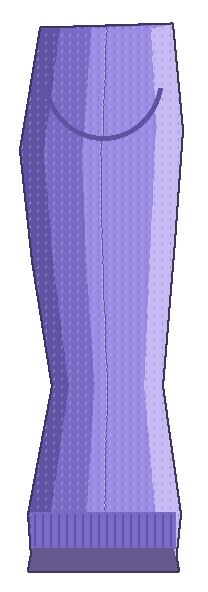
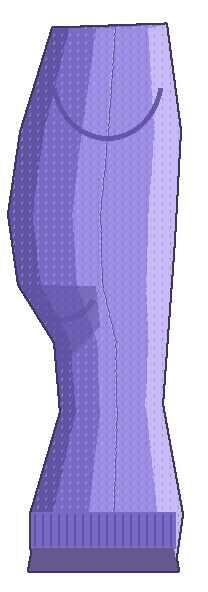
Visuales corporales: busto más prominente y alineación micro al girar la giantess

diff --git a/tools/art/cuerpo.py b/tools/art/cuerpo.py
@@ -423,44 +423,71 @@ def body_chest():
     d = ImageDraw.Draw(im)
     cx = w // 2
 
-    # Silueta femenina entallada del torso (hombros anchos, cintura afinada, cadera suave)
+    # Silueta femenina de joven adulta: busto prominente, cintura entallada, cadera suave
     torso = [
-        (36, 36), (146, 22), (w - 146, 22), (w - 36, 36),
-        (w - 22, 140), (w - 36, 290), (w - 64, 446), (w - 48, 566),
-        (w - 58, h - 22), (58, h - 22), (48, 566), (64, 446),
-        (36, 290), (22, 140),
+        (42, 34), (146, 22), (w - 146, 22), (w - 42, 34),
+        (w - 28, 118), (w - 14, 198), (w - 18, 276), (w - 42, 346),
+        (w - 76, 444), (w - 64, 520), (w - 48, 574), (w - 54, h - 22),
+        (54, h - 22), (48, 574), (64, 520), (76, 444),
+        (42, 346), (18, 276), (14, 198), (28, 118),
     ]
     d.polygon(torso, fill=CARD)
     shade_cylinder(im, CARD, CARD_L, CARD_D, CARD_D2, knit=True)
 
-    d = ImageDraw.Draw(im)
-    # Sombras suaves de volumen del busto
-    d.arc([74, 152, cx - 10, 286], start=20, end=165, fill=CARD_D, width=8)
-    d.arc([cx + 10, 152, w - 74, 286], start=15, end=160, fill=CARD_D2, width=8)
+    # Volumen 3D del busto sobre el tejido del cárdigan (cel-shading suave, sin cortes rectos)
+    bust = Image.new('RGBA', (w, h), (0, 0, 0, 0))
+    db = ImageDraw.Draw(bust)
+    # Sombra proyectada continua bajo la línea del busto (forma de W suave)
+    under_shadow = [
+        (36, 266), (72, 316), (138, 338), (cx - 24, 322), (cx, 298),
+        (cx + 24, 322), (w - 138, 338), (w - 72, 316), (w - 36, 266),
+        (w - 44, 344), (w - 92, 368), (cx + 28, 356), (cx, 336),
+        (cx - 28, 356), (92, 368), (44, 344),
+    ]
+    db.polygon(under_shadow, fill=(*CARD_D2[:3], 130))
+    for side in (-1, 1):
+        bx = cx + side * 96
+        # media luna suave en la cara inferior del busto
+        db.arc([bx - 88, 178, bx + 88, 322], start=18, end=162, fill=(*CARD_D[:3], 190), width=28)
+        db.arc([bx - 88, 186, bx + 88, 324], start=22, end=158, fill=(*CARD_D2[:3], 220), width=8)
+        # brillo suave en la pendiente superior (luz desde arriba a la izquierda)
+        hl_dx = -18 if side == -1 else -10
+        db.arc([bx - 76 + hl_dx, 166, bx + 68 + hl_dx, 260], start=205, end=330, fill=(*CARD_L[:3], 150), width=22)
+        db.arc([bx - 64 + hl_dx, 174, bx + 52 + hl_dx, 244], start=210, end=320, fill=(*CARD_L[:3], 200), width=10)
+    # valle central y pliegues de tensión de la tela hacia los botones
+    db.polygon([(cx - 22, 214), (cx + 22, 214), (cx + 16, 326), (cx - 16, 326)], fill=(*CARD_D2[:3], 110))
+    for dy, spread in ((240, 54), (266, 68), (290, 44)):
+        db.line([(cx - 16, dy), (cx - 16 - spread, dy + 10)], fill=(*CARD_D2[:3], 150), width=3)
+        db.line([(cx + 16, dy), (cx + 16 + spread, dy + 10)], fill=(*CARD_D2[:3], 150), width=3)
+    # recortar el busto a la silueta del torso
+    mask = im.getchannel('A')
+    bust.putalpha(Image.composite(bust.getchannel('A'), Image.new('L', (w, h), 0), mask))
+    im.alpha_composite(bust)
 
+    d = ImageDraw.Draw(im)
     # Escote en V con blusa crema y cuello
-    v_poly = [(cx - 104, 22), (cx + 104, 22), (cx, 226)]
+    v_poly = [(cx - 102, 22), (cx + 102, 22), (cx, 212)]
     d.polygon(v_poly, fill=BLOUSE)
-    d.polygon([(cx + 12, 22), (cx + 104, 22), (cx, 226)], fill=BLOUSE_D)
+    d.polygon([(cx + 12, 22), (cx + 102, 22), (cx, 212)], fill=BLOUSE_D)
     # Borde tejido del escote en V
-    d.line([(cx - 106, 22), (cx, 230), (cx + 106, 22)], fill=CARD_D2, width=10)
-    d.line([(cx - 98, 22), (cx, 218), (cx + 98, 22)], fill=CARD_L, width=3)
+    d.line([(cx - 104, 22), (cx, 216), (cx + 104, 22)], fill=CARD_D2, width=10)
+    d.line([(cx - 96, 22), (cx, 204), (cx + 96, 22)], fill=CARD_L, width=3)
 
     # Tapeta central de botones
-    d.rectangle([cx - 16, 226, cx + 16, 540], fill=CARD_D)
-    d.line([(cx - 16, 226), (cx - 16, 540)], fill=CARD_D2, width=3)
-    d.line([(cx + 16, 226), (cx + 16, 540)], fill=CARD_D2, width=3)
-    for by in (296, 392, 488):
+    d.rectangle([cx - 16, 212, cx + 16, 540], fill=CARD_D)
+    d.line([(cx - 16, 212), (cx - 16, 540)], fill=CARD_D2, width=3)
+    d.line([(cx + 16, 212), (cx + 16, 540)], fill=CARD_D2, width=3)
+    for by in (280, 386, 488):
         d.ellipse([cx - 12, by - 12, cx + 12, by + 12], fill=BTN, outline=INK, width=2)
         d.ellipse([cx - 6, by - 7, cx, by - 1], fill=BTN_HI)
 
-    # Bolsillo cosido en el frente (alrededor del agarre en y=18cm -> py=312)
-    pk = [cx + 42, 304, cx + 148, 412]
+    # Bolsillo cosido en el frente bajo el busto (alrededor del agarre)
+    pk = [cx + 42, 344, cx + 146, 444]
     d.rounded_rectangle(pk, radius=12, fill=CARD_D, outline=CARD_D2, width=4)
     d.line([(pk[0] + 6, pk[1] + 6), (pk[2] - 6, pk[1] + 6)], fill=CARD_L, width=3)
 
     # Moño rosa en el escote
-    draw_bow(d, cx, 134, scale=1.7)
+    draw_bow(d, cx, 128, scale=1.7)
 
     # Pretina acanalada inferior del cárdigan + borde de la falda violeta
     d.rectangle([52, 536, w - 52, 578], fill=CARD_D)
@@ -521,18 +548,26 @@ def body_sides():
     im = Image.new('RGBA', (w, h), (0, 0, 0, 0))
     d = ImageDraw.Draw(im)
 
-    # Perfil lateral entallado: pecho/sisa arriba, cintura en el medio, cadera abajo
+    # Perfil lateral de joven adulta: busto proyectado al frente (der), cintura marcada y cadera
     side_poly = [
-        (36, 24), (166, 28), (186, 150), (174, 260), (154, 386),
-        (178, 514), (174, h - 22), (34, h - 22), (28, 514),
-        (46, 386), (34, 240), (26, 130),
+        (42, 24), (154, 28), (186, 132), (198, 214), (188, 284), (152, 342),
+        (146, 412), (176, 514), (174, h - 22), (34, h - 22), (26, 514),
+        (46, 404), (34, 240), (28, 130),
     ]
     d.polygon(side_poly, fill=CARD)
-    shade_cylinder(im, CARD, CARD_L, CARD_D, CARD_D2, knit=True, seam_x=0.5)
+    shade_cylinder(im, CARD, CARD_L, CARD_D, CARD_D2, knit=True, seam_x=0.45)
+
+    # Detalles internos recortados a la silueta (sisa y sombra curva bajo el busto)
+    det = Image.new('RGBA', (w, h), (0, 0, 0, 0))
+    dd = ImageDraw.Draw(det)
+    dd.arc([44, 14, 156, 140], start=10, end=170, fill=(*CARD_D2[:3], 235), width=5)
+    dd.polygon([(112, 286), (186, 284), (154, 344), (146, 366), (108, 326)], fill=(*CARD_D2[:3], 145))
+    dd.arc([104, 224, 192, 322], start=35, end=145, fill=(*CARD_D2[:3], 220), width=6)
+    mask = im.getchannel('A')
+    det.putalpha(Image.composite(det.getchannel('A'), Image.new('L', (w, h), 0), mask))
+    im.alpha_composite(det)
 
     d = ImageDraw.Draw(im)
-    # Curva de la sisa arriba
-    d.arc([44, 14, 164, 140], start=10, end=170, fill=CARD_D2, width=5)
     # Pretina y borde de falda abajo
     d.rectangle([32, 512, 176, 548], fill=CARD_D)
     for x in range(36, 174, 8):

diff --git a/cmd/game/body_visuals_test.go b/cmd/game/body_visuals_test.go
@@ -3,8 +3,12 @@ package main
 import (
 	"testing"
 
+	"gtsandbox/internal/core/fixedmath"
 	"gtsandbox/internal/core/ids"
+	"gtsandbox/internal/core/units"
 	"gtsandbox/internal/render"
+	"gtsandbox/internal/sim/comp"
+	"gtsandbox/internal/sim/ecs"
 	"gtsandbox/internal/sim/space"
 )
 
@@ -165,5 +169,74 @@ func TestBodyArticulatedPortalMarksVisible(t *testing.T) {
 	}
 	if portalMarks < 2 {
 		t.Fatalf("antebrazo derecho debía mostrar señales de paso de sus articulaciones (muñeca y codo), mostró %d", portalMarks)
+	}
+}
+
+// Regresión: cuando la giantess gira (90°, 180°, 270°), en vista micro de una
+// zona corporal (p. ej. pecho) el tiny, los agarres y los portales deben seguir
+// alineados dentro del sprite derecho de esa zona, y sin sombra de asiento encima.
+func TestBodyMicroAlignmentWhenGiantessRotated(t *testing.T) {
+	g := artGame(t, randomBase)
+	g.w, g.h = 960, 540
+	g.run.StepOnce()
+
+	var giantessID, chestID, tinyID ids.ID
+	for _, s := range g.run.Cur.Spaces {
+		switch s.Name {
+		case "giantess":
+			giantessID = s.ID
+		case "pecho":
+			chestID = s.ID
+		}
+	}
+	for _, th := range g.run.Cur.Things {
+		if isTiny(th) {
+			tinyID = th.ID
+			break
+		}
+	}
+	if giantessID.IsNil() || chestID.IsNil() || tinyID.IsNil() {
+		t.Fatalf("faltan entidades: giantess=%v chest=%v tiny=%v", giantessID, chestID, tinyID)
+	}
+
+	locs := ecs.Get[comp.Location](g.run.World.ECS())
+	if l, ok := locs.Get(tinyID); ok {
+		l.Space = chestID
+		l.Pos = units.V3(14*units.Centimeter, 18*units.Centimeter, 0)
+		locs.Set(tinyID, l)
+	}
+
+	for _, rot := range []fixedmath.Angle{fixedmath.QuarterTurn, fixedmath.HalfTurn, 3 * fixedmath.QuarterTurn} {
+		if l, ok := locs.Get(giantessID); ok {
+			l.Facing = rot
+			locs.Set(giantessID, l)
+		}
+		g.run.StepOnce()
+		f := g.run.Cur
+
+		g.art.focus = chestID
+		g.fitArt()
+		proj := g.cam.Project(g.anchor(f), g.w, g.h)
+		scene := g.art.atlas.Arrange(f, proj, g.visuals, render.Micro, chestID, tinyID)
+
+		chestBounds, ok := scene.Bounds(chestID)
+		if !ok {
+			t.Fatalf("rot=%v: pecho sin bounds", rot)
+		}
+		tinyBounds, ok := scene.Bounds(tinyID)
+		if !ok {
+			t.Fatalf("rot=%v: tiny sin bounds", rot)
+		}
+		if !tinyBounds.In(chestBounds) {
+			t.Fatalf("rot=%v: tiny %v quedó fuera del sprite de pecho %v", rot, tinyBounds, chestBounds)
+		}
+		for _, pl := range scene.Placements() {
+			if pl.Ghost && !pl.Dest.Overlaps(chestBounds) {
+				t.Fatalf("rot=%v: marca/portal %v en %v quedó fuera de pecho %v", rot, pl.ID, pl.Dest, chestBounds)
+			}
+			if pl.Ghost && g.visuals[pl.ID] == "seat" {
+				t.Fatalf("rot=%v: no debe dibujarse sombra de asiento sobre una zona corporal", rot)
+			}
+		}
 	}
 }

diff --git a/internal/view/frame.go b/internal/view/frame.go
@@ -70,23 +70,30 @@ type Space struct {
 	Step     string `json:"step,omitempty"`
 	Goal     ids.ID `json:"goal,omitempty"`
 	Needs    []Need `json:"needs,omitempty"`
-	// Climb, Occluded, Projected y Grips informan a la vista micro sobre zonas
-	// corporales (trepadas de costado, ropa/pelo que tapan, proyección 3D y agarres).
+	// Climb, Occluded, Projected, BodyZone y Grips informan a la vista micro
+	// sobre zonas corporales (trepadas, ropa/pelo que tapan, proyección 3D y agarres).
 	Climb     bool   `json:"climb,omitempty"`
 	Occluded  bool   `json:"occluded,omitempty"`
 	Projected bool   `json:"projected,omitempty"`
+	BodyZone  bool   `json:"body_zone,omitempty"`
 	Grips     []Grip `json:"grips,omitempty"`
 }
 
-// MicroPos devuelve la posición sobre el plano micro del Space: en superficies
-// con proyección 3D (trepadas o planos inclinados del cuerpo) proyecta las
-// coordenadas locales 2D sobre la baldosa dibujada; en superficies planas
-// devuelve worldPos sin cambios.
+// UsesMicroLocal indica si la vista micro dibuja este Space derecho en su plano
+// local 2D (sin rotación ni proyección 3D), como las regiones corporales.
+func (s Space) UsesMicroLocal() bool {
+	return s.Projected || s.BodyZone
+}
+
+// MicroPos devuelve la posición sobre el plano micro del Space: en regiones
+// corporales o Spaces con proyección 3D coloca las coordenadas locales 2D
+// alineadas con el sprite derecho (sin rotar por s.Pose.Rot); en superficies
+// planas de la casa devuelve worldPos sin cambios.
 func (s Space) MicroPos(worldPos, localPos units.Vec3) units.Vec3 {
-	if !s.Projected {
+	if !s.UsesMicroLocal() {
 		return worldPos
 	}
-	return s.Pose.Transform().Apply(units.V3(localPos.X, localPos.Y, 0))
+	return s.Pose.Pos.Add(units.V3(localPos.X, localPos.Y, 0))
 }
 
 // Expedition resume una expedición activa de la colonia para la interfaz.
@@ -347,6 +354,7 @@ func (c *Capturer) Capture(w *world.World) *Frame {
 			Extent: sp.Extent, Surface: surfaces.Has(id), Mover: mover(id, p.Pos),
 			Climb: sp.IsClimb(), Projected: sp.Projection != nil}
 		if z, ok := zones.Get(id); ok {
+			s.BodyZone = true
 			s.Occluded = z.Occluded
 			if len(z.Grips) > 0 {
 				s.Grips = make([]Grip, len(z.Grips))

diff --git a/internal/render/pixels.go b/internal/render/pixels.go
@@ -419,7 +419,7 @@ func (a *Atlas) Arrange(f *view.Frame, p camera.Projector, visuals map[ids.ID]st
 		if scale != Micro {
 			return worldPos
 		}
-		if sp, ok := f.SpaceByID(spaceID); ok && sp.Projected {
+		if sp, ok := f.SpaceByID(spaceID); ok && sp.UsesMicroLocal() {
 			return sp.MicroPos(worldPos, localPos)
 		}
 		return worldPos
@@ -526,7 +526,7 @@ func (a *Atlas) Arrange(f *view.Frame, p camera.Projector, visuals map[ids.ID]st
 		if fs, ok := f.SpaceByID(focus); ok {
 			focusArticulated = fs.Kind == space.Articulated
 			for _, gr := range fs.Grips {
-				pos := fs.Pose.Transform().Apply(units.V3(gr.Pos.X, gr.Pos.Y, 0))
+				pos := fs.MicroPos(fs.Pose.Transform().Apply(units.V3(gr.Pos.X, gr.Pos.Y, 0)), units.V3(gr.Pos.X, gr.Pos.Y, 0))
 				add(fs.ID, fs.ID, ids.Nil, pos, []string{"idle"}, false, image.Point{},
 					look{visual: GripVisual, ghost: true, layer: layerGround, alpha: 0.78})
 			}
@@ -555,8 +555,9 @@ func (a *Atlas) Arrange(f *view.Frame, p camera.Projector, visuals map[ids.ID]st
 			}
 		}
 		// Sombra anticipada de una superficie móvil que todavía no se apoya
-		// sobre la superficie enfocada (solo visuales con clip shadow_<dir>).
-		if fs, ok := f.SpaceByID(focus); ok {
+		// sobre la superficie enfocada (solo visuales con clip shadow_<dir>, y
+		// nunca sobre otra zona del mismo cuerpo).
+		if fs, ok := f.SpaceByID(focus); ok && !fs.BodyZone {
 			for _, s := range f.Spaces {
 				if s.Mover != nil || s.Extent.Empty() || inFocus(s.ID) {
 					continue
@@ -981,7 +982,7 @@ func buildBackdrop(f *view.Frame, p camera.Projector, sp view.Space, climb bool)
 	}
 	var rect image.Rectangle
 	for i, c := range corners {
-		sx, sy := p.ToScreen(tr.Apply(units.V3(c.X, c.Y, 0)))
+		sx, sy := p.ToScreen(sp.MicroPos(tr.Apply(units.V3(c.X, c.Y, 0)), units.V3(c.X, c.Y, 0)))
 		pt := image.Pt(int(math.Round(float64(sx))), int(math.Round(float64(sy))))
 		r := image.Rectangle{Min: pt, Max: pt.Add(image.Pt(1, 1))}
 		if i == 0 {

diff --git a/cmd/game/main.go b/cmd/game/main.go
@@ -390,7 +390,7 @@ func (g *game) anchor(f *view.Frame) fixedmath.Transform {
 				}
 			} else if g.art != nil && g.artScale(f) == render.Micro {
 				if t, ok := f.ThingByID(g.follow); ok {
-					if sp, ok := f.SpaceByID(t.Space); ok && sp.Projected {
+					if sp, ok := f.SpaceByID(t.Space); ok && sp.UsesMicroLocal() {
 						p.Pos = sp.MicroPos(t.Pose.Pos, t.LocalPos)
 					}
 				}
@@ -745,6 +745,13 @@ func (g *game) moveSelected(p units.Vec2) {
 	t, ok := g.run.Cur.ThingByID(g.sel)
 	if !ok || t.Mover == nil {
 		return
+	}
+	if g.art != nil {
+		if fs, ok := g.run.Cur.SpaceByID(g.artFocus(g.run.Cur)); ok && fs.UsesMicroLocal() {
+			l := p.Sub(fs.Pose.Pos.XY())
+			_ = g.run.Enqueue(nav.MoveTo{Entity: t.ID, Space: fs.ID, Goal: l})
+			return
+		}
 	}
 	if s, l, ok := g.run.Cur.SurfaceAt(p); ok {
 		_ = g.run.Enqueue(nav.MoveTo{Entity: t.ID, Space: s, Goal: l})

diff --git a/cmd/game/art.go b/cmd/game/art.go
@@ -220,7 +220,8 @@ func (g *game) fitArt() {
 	if s, ok := f.SpaceByID(focus); ok {
 		g.cam.Anchor = s.ID
 		// El ancla sigue la traslación del Space con el norte arriba.
-		center := s.Pose.Transform().Apply(units.V3((s.Extent.Min.X+s.Extent.Max.X)/2, (s.Extent.Min.Y+s.Extent.Max.Y)/2, 0))
+		mid := units.V3((s.Extent.Min.X+s.Extent.Max.X)/2, (s.Extent.Min.Y+s.Extent.Max.Y)/2, 0)
+		center := s.MicroPos(s.Pose.Transform().Apply(mid), mid)
 		g.cam.X, g.cam.Y = float64(center.X-s.Pose.Pos.X), float64(center.Y-s.Pose.Pos.Y)
 		if offset, ok := g.art.atlas.MicroFocus(g.visuals[s.ID]); ok {
 			g.cam.X = float64(offset.X) / g.artZoom(render.Micro)

diff --git a/cmd/game/tinies.go b/cmd/game/tinies.go
@@ -160,7 +160,7 @@ func tinyCluster(f *view.Frame, s ids.ID) (units.Vec2, int) {
 	for _, t := range f.Things {
 		if isTiny(t) && t.Space == s {
 			pos := t.Pose.Pos
-			if hasSp && sp.Projected {
+			if hasSp && sp.UsesMicroLocal() {
 				pos = sp.MicroPos(t.Pose.Pos, t.LocalPos)
 			}
 			pts = append(pts, pos.XY())
